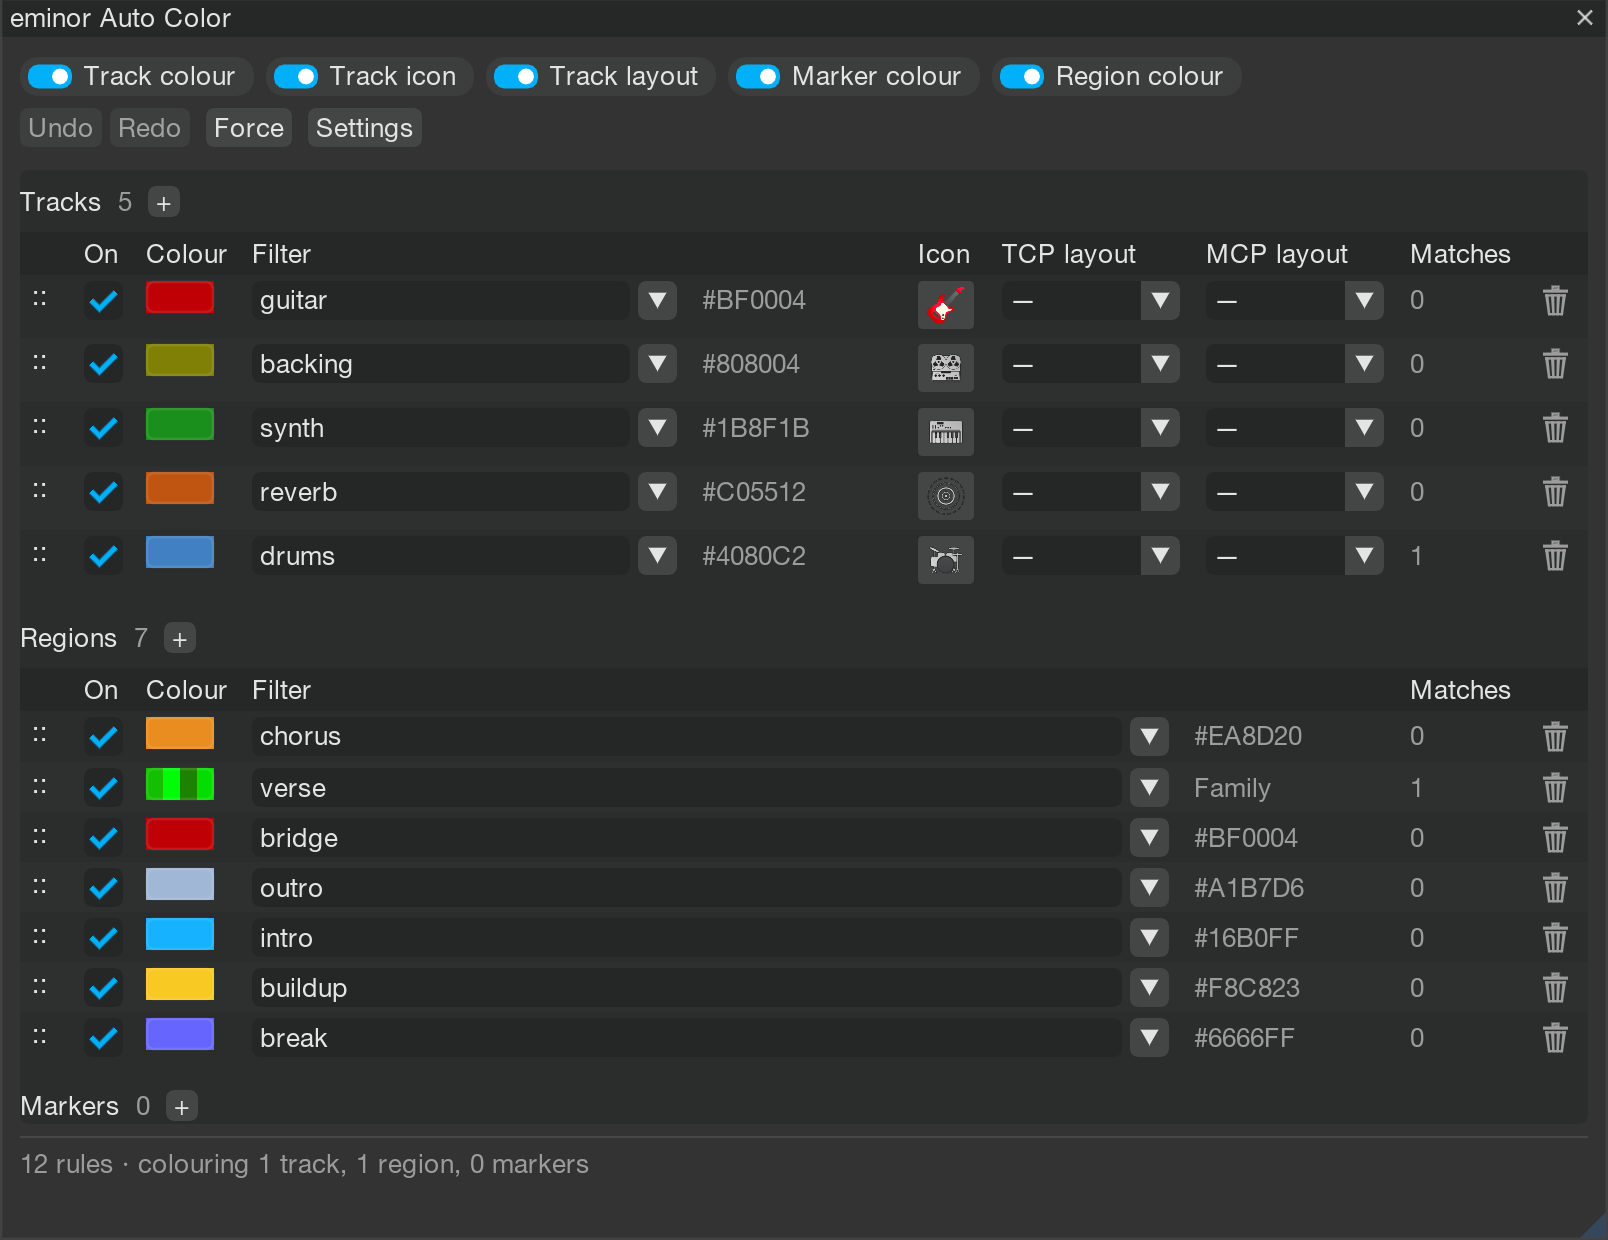
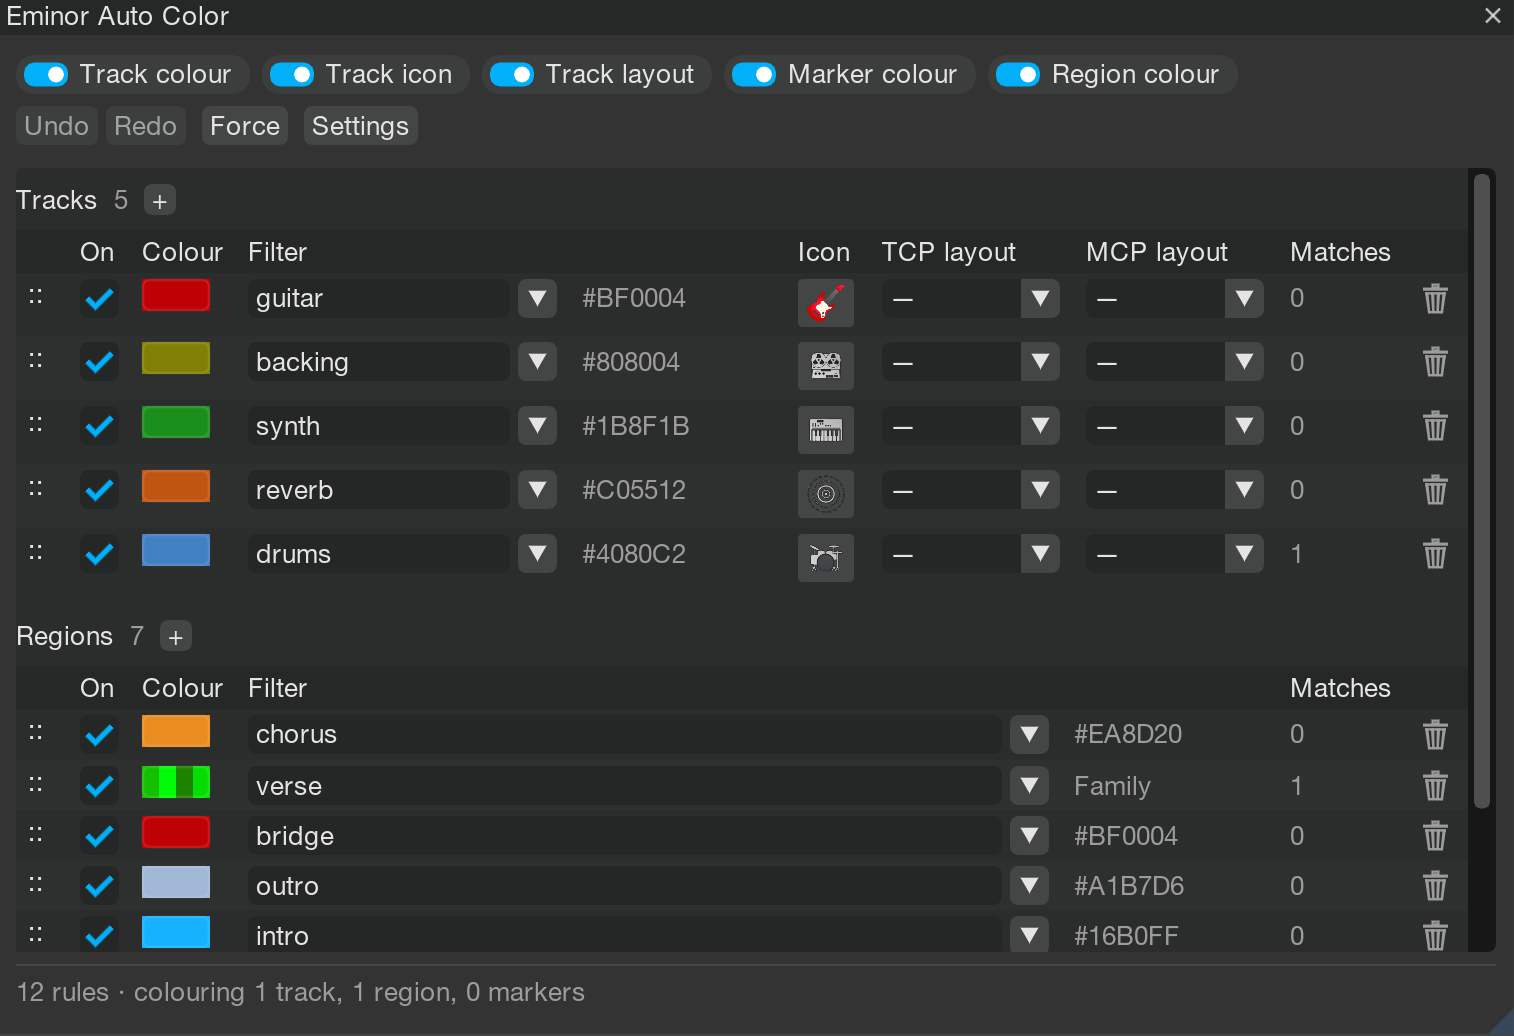
README: new screenshot; drop status, hand-changes, performance and tests sections
Claude-Session: https://claude.ai/code/session_017ZfJiKaAZr3bn42h3gP8UD

diff --git a/scripts/eminor_autocolor/README.md b/scripts/eminor_autocolor/README.md
@@ -16,11 +16,6 @@ by rules you set. It leaves changes you make by hand alone.
    starts with REAPER. Moving from SWS? Settings › SWS imports
    its rules and switches it off.
 
-Status: **phase 4**. Everything SWS Auto Color/Icon/Layout does works,
-rules are edited in the editor window, and Settings › SWS imports SWS's
-rules and switches SWS's own Auto Color off. Polish comes in phase 5;
-see the plan doc.
-
 ## Actions
 
 Only the editor needs loading (Action List › New action › Load
@@ -98,43 +93,3 @@ Matching follows SWS:
 Colour modes: `fixed`, `gradient`, `family` (similar shades from a range
 or a palette), `random` (stable per track), `parent`, `none` and
 `ignore`.
-
-## Changes you make by hand
-
-Each track, marker and region remembers what the engine last set on it
-(tracks in the track, markers and regions in the project). The engine
-only changes what is still as it left it, and undoes its own changes
-when a rule stops matching. Force overwrites everything.
-
-Two cases are taken over on first sight, so moving from SWS is smooth:
-
-- a track whose colour is exactly one a fixed rule gives;
-- a marker or region that a rule matches (SWS recoloured those on every
-  pass, so any colour on them came from SWS).
-
-Tracks SWS coloured with a gradient or random colour can't be told
-apart from hand colours. Run Force once to take them over.
-
-Unlike SWS, a colour you set by hand on a marker or region now stays.
-
-## Performance
-
-The engine runs on REAPER's UI thread, never the audio thread. Most ticks
-only compare a change counter and return. It looks at the tracks only
-when the project changes (or every half second as a fallback), never
-applies while recording, and waits 300 ms after Play, Record or Stop.
-To check the cost on your own projects, turn on the timing log.
-
-## Tests
-
-The logic that doesn't need REAPER is tested with plain Lua 5.4:
-
-```sh
-lua scripts/eminor_autocolor/tests/run.lua
-```
-
-`tests/fake_reaper.lua` stands in for the REAPER API in those tests, and
-`tests/fake_imgui.lua` for ReaImGui: it knows the real argument counts of
-every ReaImGui 0.10 function the editor calls, so a wrong name or call
-fails the tests. It can't show how the window looks.
-Anything that touches REAPER for real still needs checking in REAPER.
